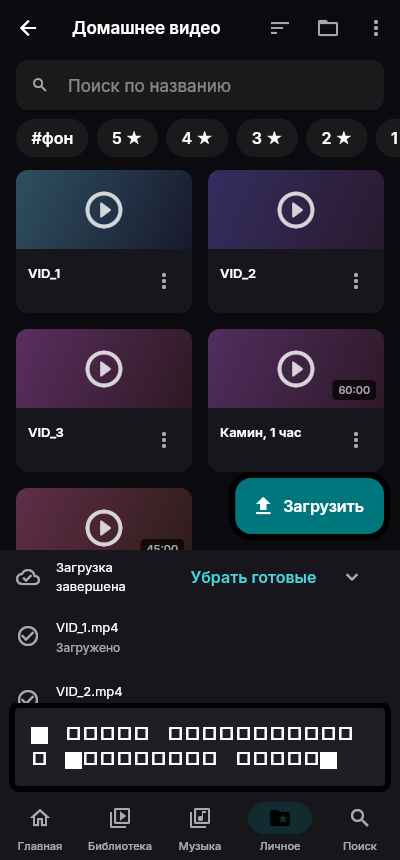
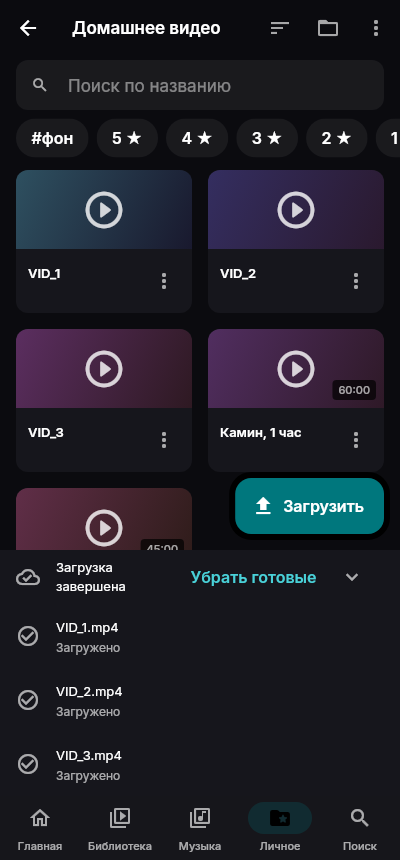
docs(roadmap): UI-035 done; screenshots [UI-035]

Changed region(s): [[0.0, 0.8163, 0.99, 0.9372]]

diff --git a/docs/ROADMAP.md b/docs/ROADMAP.md
@@ -1042,7 +1042,7 @@ project_alpha/
   - deps: UI-025, UI-028 · size: S · parallel: yes · веха: M3 · ref: UI-025, ADR-0098 (личные медиа)
   - done when: widget-тесты: в мастере SMB и формах нет выбора типа; папка, перенесённая в «Личное» из обзора, не распознаётся (отметка записана до первого скана); тест pa-sources: источник, ставший личным, уходит с других устройств.
 
-- [ ] **UI-035** Файлы как в Nextcloud: загрузка с телефона, перенос, папки
+- [x] **UI-035** Файлы как в Nextcloud: загрузка с телефона, перенос, папки
   - Что: в «Личном» и в любом источнике, куда можно писать (NET-023), — файловый вид: загрузить с телефона (выбор из галереи и файлов, «Поделиться → Kinolune» на Android и iOS, несколько файлов сразу, фоновая загрузка с прогрессом и докачкой), создать папку, переименовать, переместить («Переместить в…», на десктопе — перетаскиванием), копировать, удалить в корзину и восстановить; «Личное хранилище» выбирается само (первый источник с записью, иначе папка приложения на устройстве), сменить можно в настройках. Загруженное в «Личное» сразу попадает в открытую личную библиотеку без распознавания; загруженное в другие папки распознаётся как обычно (LIB-025). Автозагрузка новых видео с камеры телефона — опционально [P2].
   - deps: NET-023, UI-025 · size: L · parallel: yes · веха: M3 · ref: ADR-0099, ADR-0098, UI-022 (share target)
   - done when: widget-тесты файлового вида (загрузка, папка, перенос, корзина, конфликт имён); на эмуляторе Android загрузка 3 видео из галереи через «Поделиться» доходит до SMB стенда и появляется в «Личном»; скриншоты телефона и десктопа.
